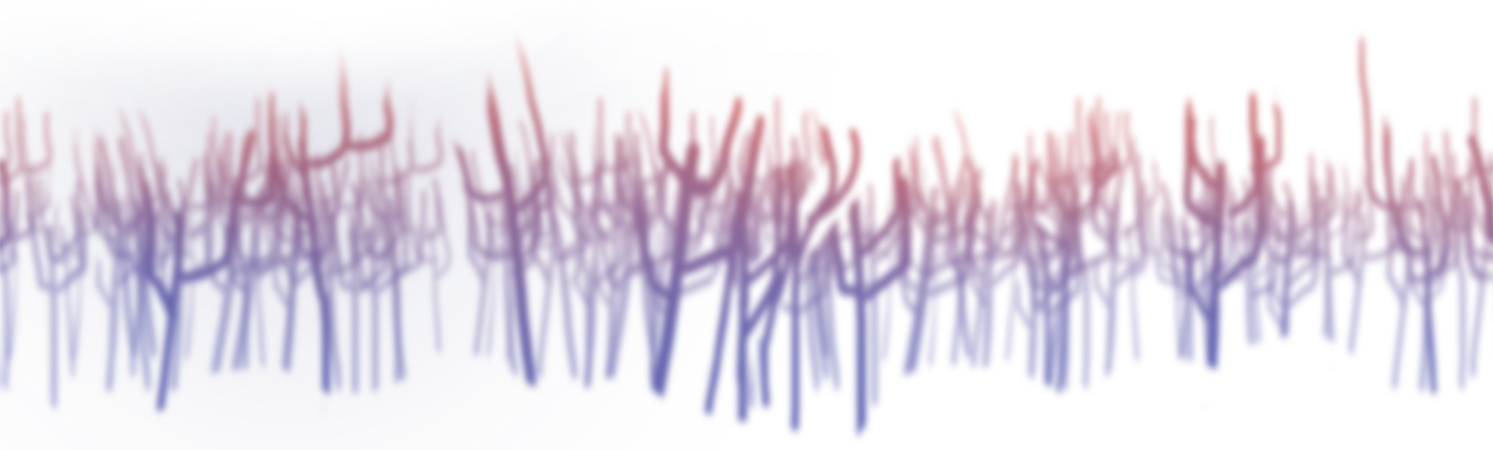
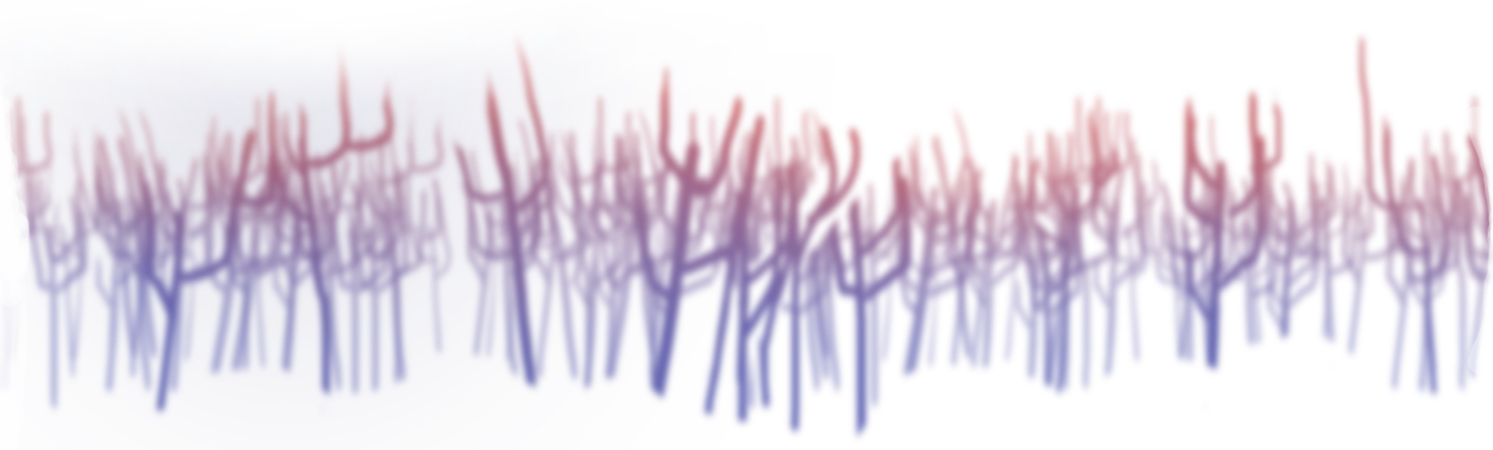
Cleaned up Forest background small trees. Coins now shimmer in all environments.

Changed region(s): [[0.0, 0.2489, 0.0308, 0.8711], [0.9859, 0.3111, 1.0, 0.6222]]

diff --git a/Cloudberry Kingdom/Game/Objects/In Game Objects/Grab/Coin.cs b/Cloudberry Kingdom/Game/Objects/In Game Objects/Grab/Coin.cs
@@ -13,7 +13,6 @@ namespace CloudberryKingdom.InGameObjects
     {
         public class CoinTileInfo : TileInfoBase
         {
-            //public SpriteInfo Sprite = new SpriteInfo("CoinBlue2", new Vector2(105, -1));
             public SpriteInfo Sprite = new SpriteInfo("CoinShimmer", new Vector2(105, -1));
 
             public Vector2 BoxSize = new Vector2(52.5f, 65);
@@ -57,6 +56,14 @@ namespace CloudberryKingdom.InGameObjects
             Core.DrawLayer = 5;
 
             Box.Initialize(Vector2.Zero, Vector2.One);
+
+            if (MyQuad != null)
+            {
+                MyQuad.Quad.t = 0;
+                MyQuad.Quad.Playing = false;
+                MyQuad.Quad.Loop = false;
+
+            }
         }
 
         public override void Release()
@@ -132,6 +139,8 @@ namespace CloudberryKingdom.InGameObjects
                 case CoinType.Blue:
                     AlwaysActive = false;
                     MyQuad.Set(Info  .Coins.Sprite);
+                    MyQuad.Quad.Playing = false;
+                    MyQuad.Quad.Loop = false;
                     break;
                 default: break;
                 //case CoinType.Red:
@@ -156,13 +165,26 @@ namespace CloudberryKingdom.InGameObjects
             if (!AlwaysActive)
             if (!Core.MyLevel.MainCamera.OnScreen(Core.Data.Position, 200))
             {
+                if (!MyLevel.BoxesOnly)
+                {
+                    MyQuad.Quad.Playing = false;
+                    MyQuad.Quad.Loop = false;
+                    MyQuad.Quad.t = 0;
+                }
+
                 Core.SkippedPhsx = true;
                 Core.WakeUpRequirements = true;
                 return;
             }
             Core.SkippedPhsx = false;
 
-            //MyQuad.Quad.Playing = true;
+            // Shimmer
+            if (!MyLevel.BoxesOnly)
+            {
+                MyQuad.Quad.Playing = true;
+                MyQuad.Quad.Loop = false;
+                MyQuad.Quad.t = MyLevel.CurPhsxStep % 110;
+            }
 
             if (MyType == CoinType.Red)
                 Core.Data.Position = GetPos();

diff --git a/Cloudberry Kingdom/Core/Graphics/Draw/Simple/SimpleQuad.cs b/Cloudberry Kingdom/Core/Graphics/Draw/Simple/SimpleQuad.cs
@@ -40,6 +40,7 @@ namespace CoreEngine
             t = 0;
             anim = 0;
             Playing = true;
+            Loop = true;
             speed = 1;
         }
         public void Set(TextureOrAnim t_or_a)
@@ -56,6 +57,7 @@ namespace CoreEngine
         public int anim;
         public bool Playing;
         public float speed;
+        public bool Loop;
 
         public void UpdateTextureAnim()
         {
@@ -108,7 +110,10 @@ namespace CoreEngine
             this.t = frame;
 
             if (t >= TextureAnim.Anims[anim].Data.Length)
+            {
                 t = 0;
+                if (!Loop) Playing = false;
+            }
             else if (t < 0)
             {
                 t += TextureAnim.Anims[anim].Data.Length;
@@ -151,7 +156,7 @@ namespace CoreEngine
 
             Animated = quad.Animated;
             TextureAnim = quad.TextureAnim;
-            t = quad.t; anim = quad.anim; Playing = quad.Playing; speed = quad.speed;
+            t = quad.t; anim = quad.anim; Playing = quad.Playing; speed = quad.speed; Loop = quad.Loop;
 
             Hide = false;
 
@@ -231,7 +236,7 @@ namespace CoreEngine
             UseGlobalIllumination = true;
             Illumination = 1f;
 
-            t = anim = 0; Playing = false; speed = 1;
+            t = anim = 0; Playing = false; speed = 1; Loop = true;
             
             MyTexture = quad.MyTexture;
         }

diff --git a/Cloudberry Kingdom/Game/Player/Hero Physics/Spaceship.cs b/Cloudberry Kingdom/Game/Player/Hero Physics/Spaceship.cs
@@ -324,7 +324,7 @@ namespace CloudberryKingdom
             if (MyBob.Core.Data.Position.Y > MyBob.TargetPosition.Y)
                 MyBob.CurInput.xVec.Y = -1;
             MyBob.CurInput.xVec.Y *= Math.Min(1, Math.Abs(MyBob.TargetPosition.Y - MyBob.Core.Data.Position.Y) / 100);
-
+            
             if (Pos.X > CurPhsxStep * 1.1f * (4000f / 600f))
             {
                 if (Pos.Y > MyBob.TargetPosition.Y && (CurPhsxStep / 40) % 3 == 0)

diff --git a/Cloudberry Kingdom/Game/Tilesets/Tilesets/Castle.cs b/Cloudberry Kingdom/Game/Tilesets/Tilesets/Castle.cs
@@ -174,7 +174,8 @@ info.Clouds.Icon.Sprite = "Cloud_Castle";
 info.Fireballs.Sprite.ColorMatrix = ColorHelper.HsvTransform(1, 1, 355);
 info.Fireballs.Icon.Sprite = "Icon_Fireball";
 
-info.Coins.Sprite.Sprite = "coin_blue";
+//info.Coins.Sprite.Sprite = "coin_blue";
+info.Coins.Sprite.Sprite = "CoinShimmer";
 info.Coins.Sprite.Size = new Vector2(105, -1);
 info.Coins.ShowCoin = true;
 info.Coins.ShowEffect = true;

diff --git a/Cloudberry Kingdom/Game/Tilesets/Tilesets/Forest.cs b/Cloudberry Kingdom/Game/Tilesets/Tilesets/Forest.cs
@@ -147,7 +147,8 @@ info.Clouds.Sprite.Sprite = "cloud_forest";
 
 info.Fireballs.Sprite.ColorMatrix = ColorHelper.HsvTransform(1, 1, 192.5f);
 
-info.Coins.Sprite.Sprite = "coin_blue";
+//info.Coins.Sprite.Sprite = "coin_blue";
+info.Coins.Sprite.Sprite = "CoinShimmer";
 info.Coins.Sprite.Size = new Vector2(105, -1);
 info.Coins.ShowCoin = true;
 info.Coins.ShowEffect = true;

diff --git a/Cloudberry Kingdom/Game/Tilesets/Tilesets/Clouds.cs b/Cloudberry Kingdom/Game/Tilesets/Tilesets/Clouds.cs
@@ -142,7 +142,8 @@ info.Clouds.Sprite.Sprite = "cloud_cloud";
 
 info.Fireballs.Sprite.ColorMatrix = ColorHelper.HsvTransform(1, 1, 104);
 
-info.Coins.Sprite.Sprite = "coin_blue";
+//info.Coins.Sprite.Sprite = "coin_blue";
+info.Coins.Sprite.Sprite = "CoinShimmer";
 info.Coins.Sprite.Size = new Vector2(105, -1);
 info.Coins.ShowCoin = true;
 info.Coins.ShowEffect = true;

diff --git a/Cloudberry Kingdom/Game/Tilesets/Tilesets/Cave.cs b/Cloudberry Kingdom/Game/Tilesets/Tilesets/Cave.cs
@@ -175,7 +175,8 @@ info.Clouds.Sprite.Sprite = "cloud_cave";
 
 info.Fireballs.Sprite.ColorMatrix = ColorHelper.HsvTransform(1, 1, 104);
 
-info.Coins.Sprite.Sprite = "coin_blue";
+//info.Coins.Sprite.Sprite = "coin_blue";
+info.Coins.Sprite.Sprite = "CoinShimmer";
 info.Coins.Sprite.Size = new Vector2(105, -1);
 info.Coins.ShowCoin = true;
 info.Coins.ShowEffect = true;

diff --git a/Cloudberry Kingdom/Game/Tilesets/Tilesets/Hills.cs b/Cloudberry Kingdom/Game/Tilesets/Tilesets/Hills.cs
@@ -135,7 +135,8 @@ info.Clouds.Sprite.Sprite = "cloud_hills";
 
 info.Fireballs.Sprite.ColorMatrix = ColorHelper.HsvTransform(1, 1, 0);
 
-info.Coins.Sprite.Sprite = "coin_blue";
+//info.Coins.Sprite.Sprite = "coin_blue";
+info.Coins.Sprite.Sprite = "CoinShimmer";
 info.Coins.Sprite.Size = new Vector2(105, -1);
 info.Coins.ShowCoin = true;
 info.Coins.ShowEffect = true;
